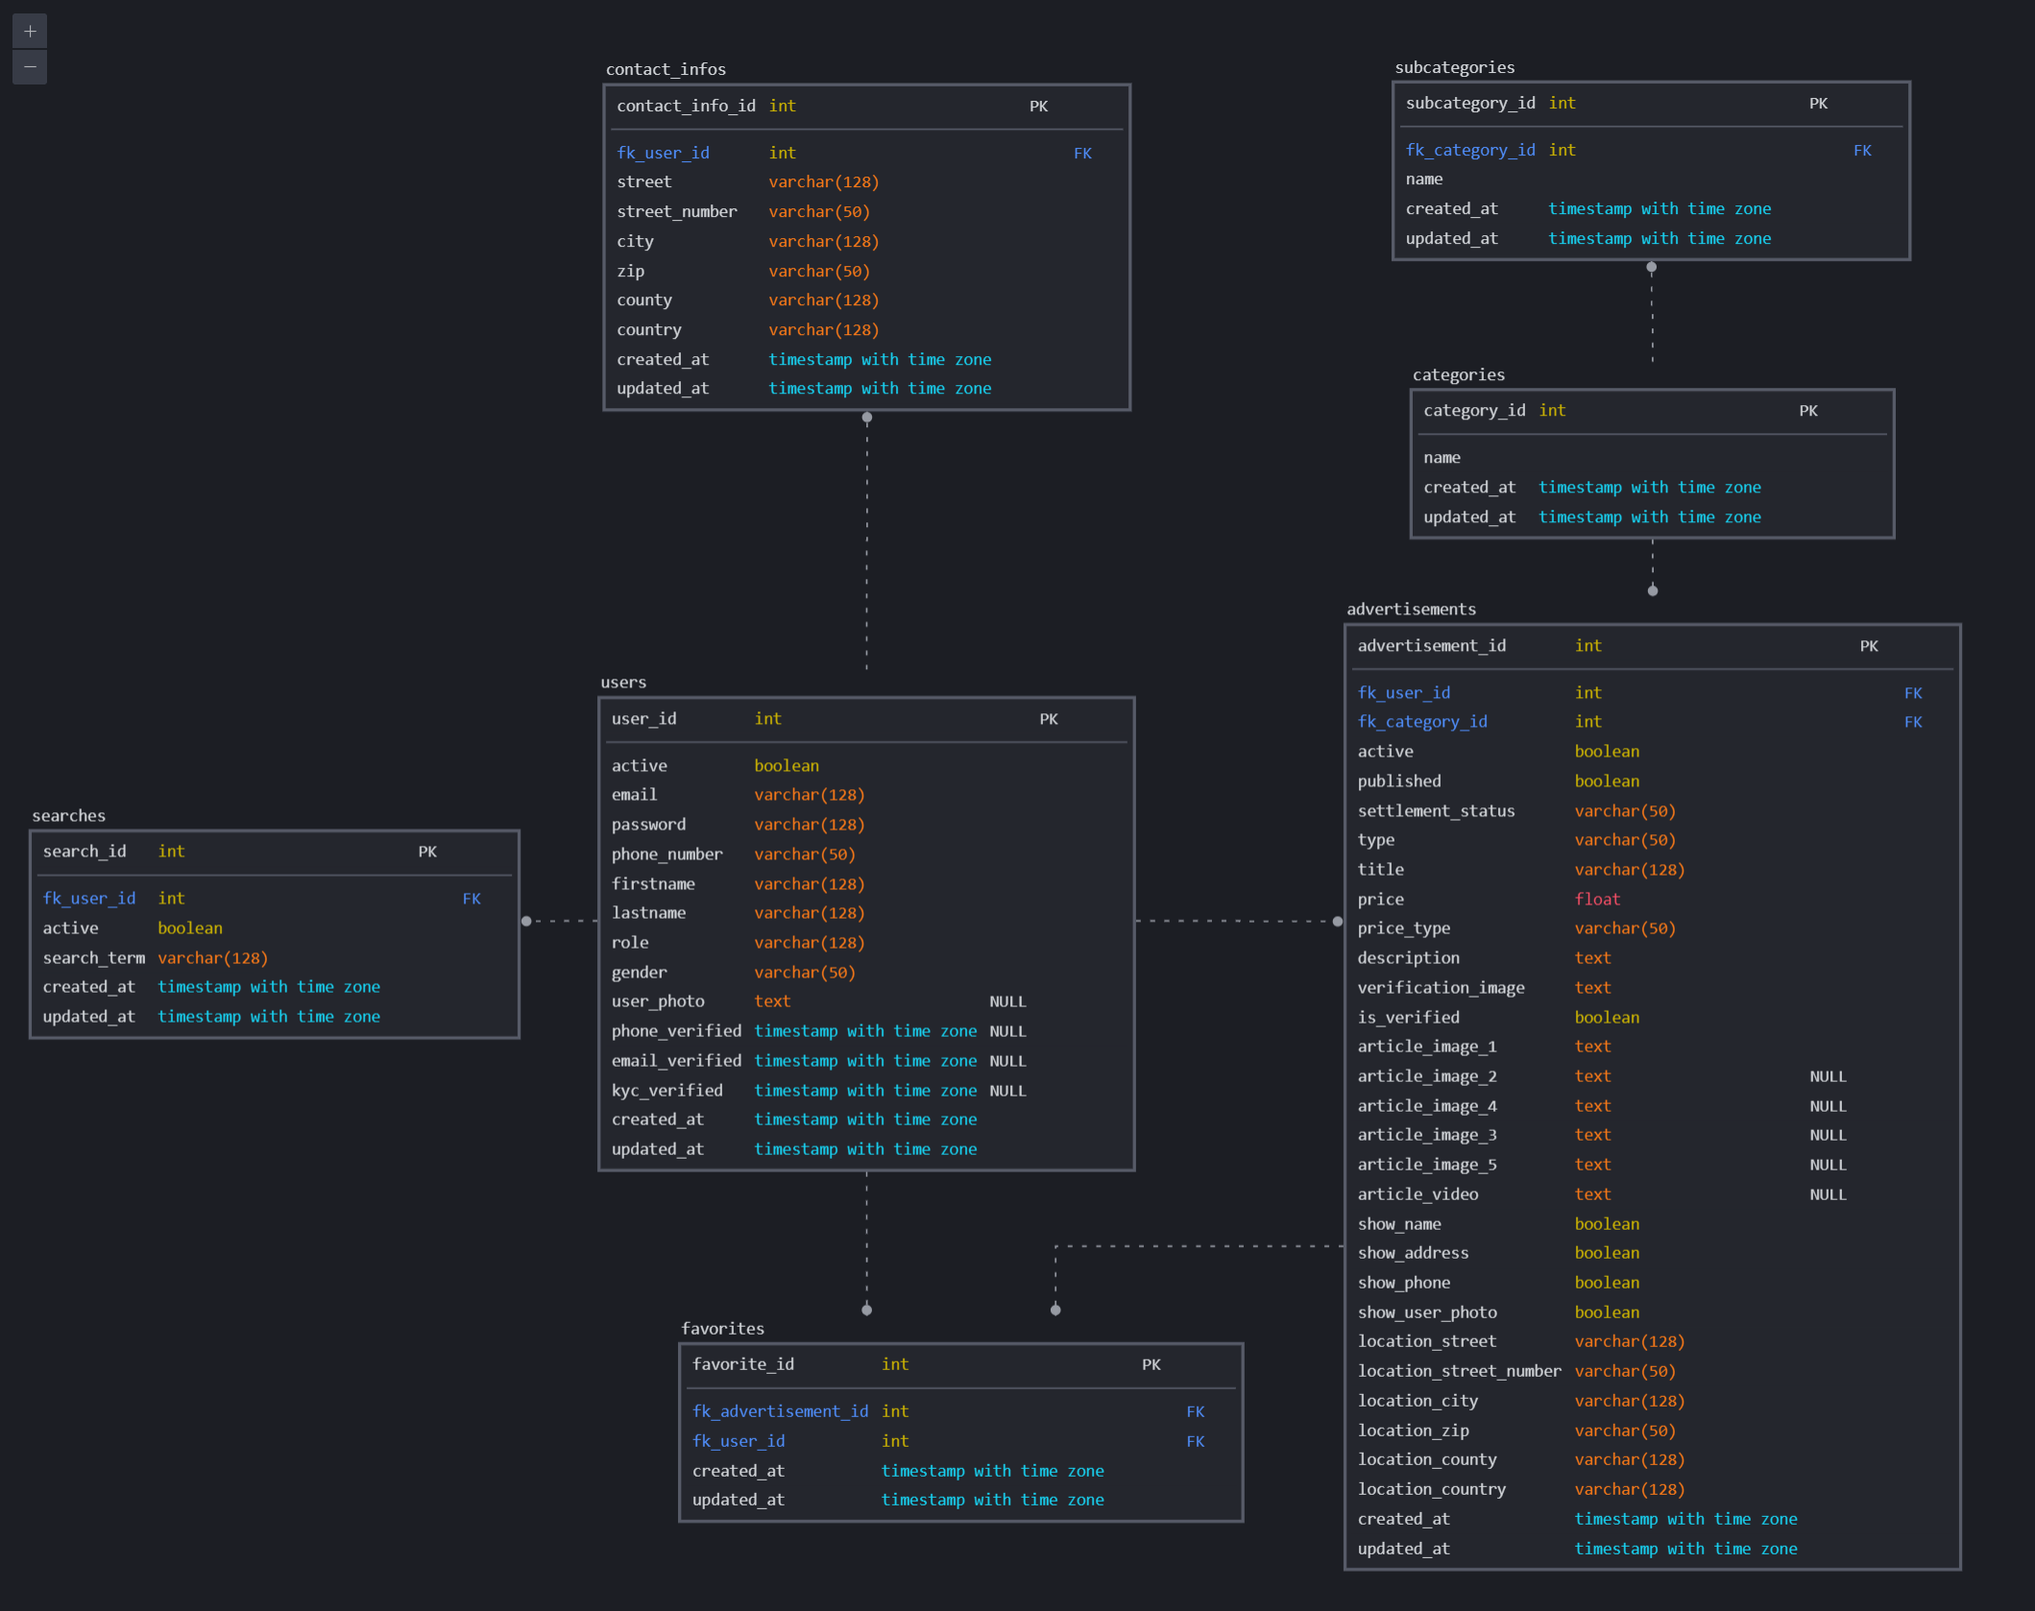
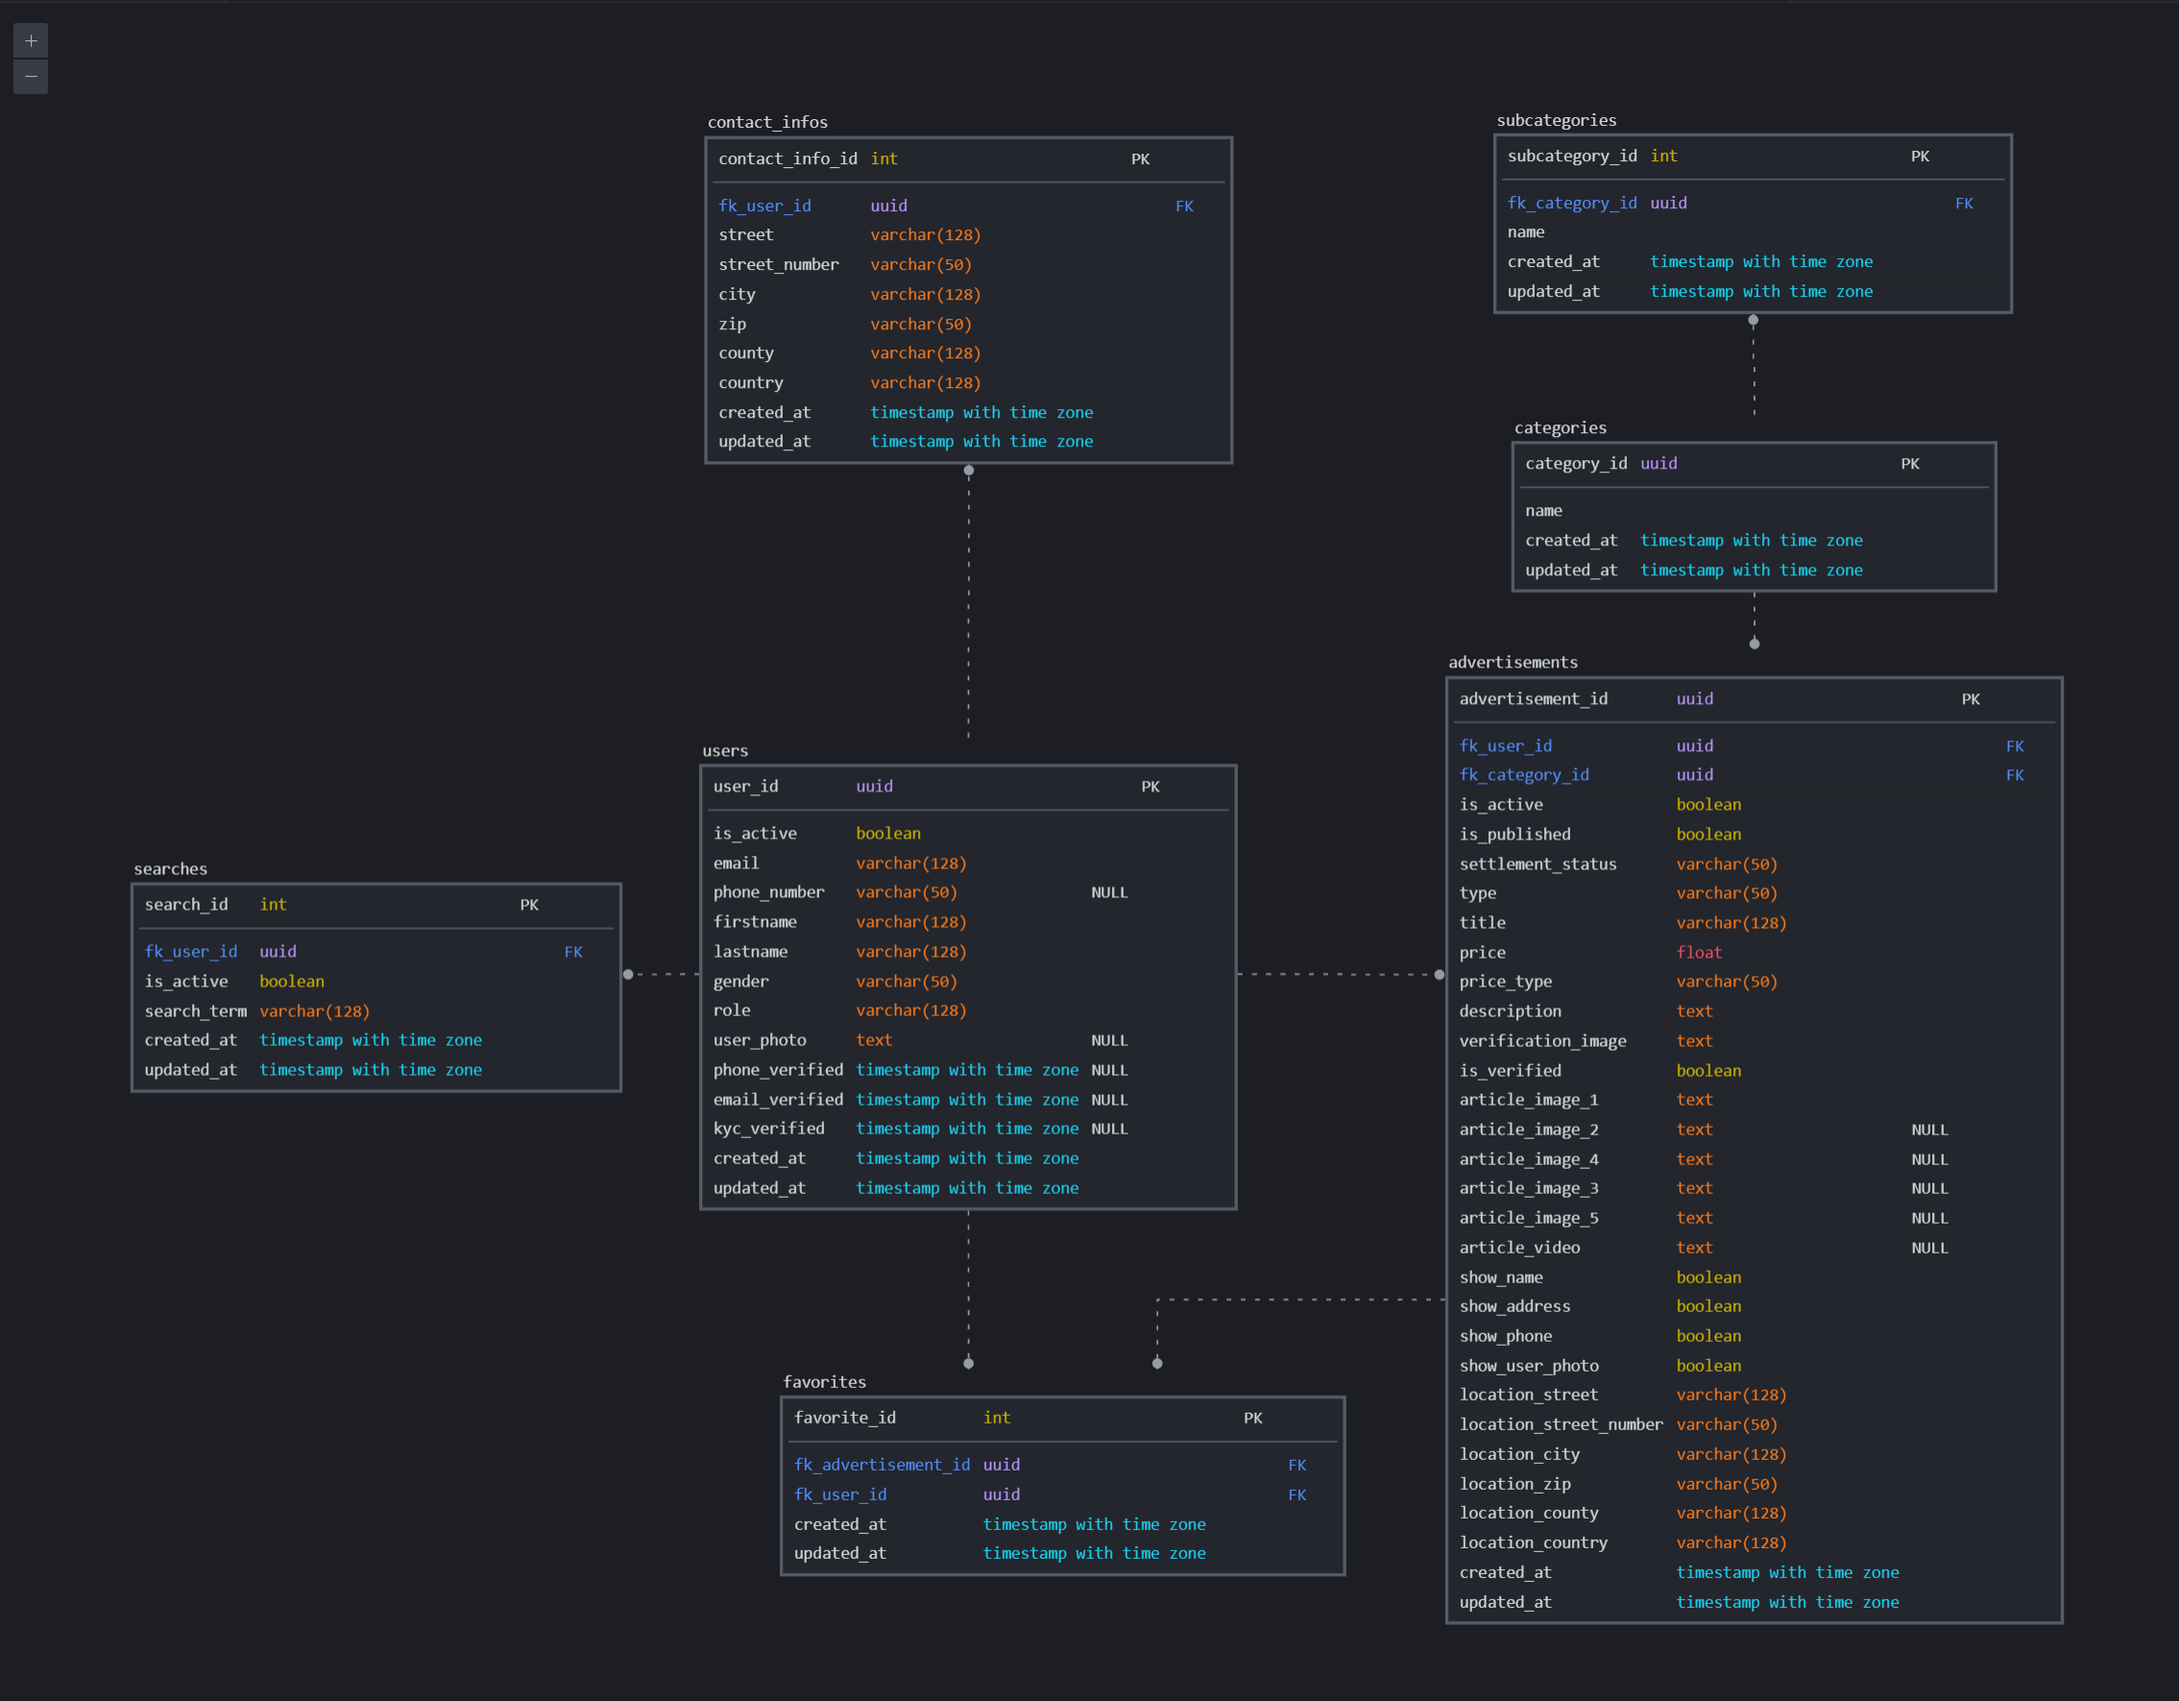
Added initial migration file before execution

diff --git a/src/database/migrations/20220413003916_init.js b/src/database/migrations/20220413003916_init.js
@@ -1,0 +1,138 @@
+exports.up = function (knex) {
+  return knex.schema
+    .createTable('users', (table) => {
+      table.uuid('user_id').primary().defaultTo(knex.raw('(UUID())'));
+      table.boolean('is_active').notNullable().defaultTo('true');
+      table.string('email', 128).notNullable().unique();
+      table.string('phone_number', 50).unique();
+      table.string('firstname', 128).notNullable();
+      table.string('lastname', 128).notNullable();
+      table.string('gender', 50).notNullable();
+      table.string('role', 128).notNullable().defaultTo('user');
+      table.string('user_photo');
+      table.timestamp('phone_verified', { useTz: true });
+      table.timestamp('email_verified', { useTz: true });
+      table.timestamp('kyc_verified', { useTz: true });
+      table.timestamps(true, true);
+    })
+    .createTable('contact_infos', (table) => {
+      table.uuid('contact_info_id').primary().defaultTo(knex.raw('(UUID())'));
+      table
+        .uuid('fk_user_id')
+        .notNullable()
+        .references('user_id')
+        .inTable('users')
+        .onDelete('RESTRICT')
+        .onUpdate('CASCADE');
+      table.string('street', 128).notNullable();
+      table.string('street_number', 50).notNullable();
+      table.string('city', 128).notNullable();
+      table.string('zip', 50).notNullable();
+      table.string('county', 128).notNullable();
+      table.string('country', 128).notNullable();
+      table.timestamps(true, true);
+    })
+    .createTable('searches', (table) => {
+      table.uuid('search_id').primary().defaultTo(knex.raw('(UUID())'));
+      table
+        .uuid('fk_user_id')
+        .notNullable()
+        .references('user_id')
+        .inTable('users')
+        .onDelete('RESTRICT')
+        .onUpdate('CASCADE');
+      table.boolean('is_active').notNullable().defaultTo('true');
+      table.string('search_term').notNullable();
+      table.timestamps(true, true);
+    })
+    .createTable('categories', (table) => {
+      table.uuid('category_id').primary().defaultTo(knex.raw('(UUID())'));
+      table.string('name').notNullable().unique();
+      table.timestamps(true, true);
+    })
+    .createTable('subcategories', (table) => {
+      table.uuid('subcategory_id').primary().defaultTo(knex.raw('(UUID())'));
+      table
+        .uuid('fk_category_id')
+        .notNullable()
+        .references('category_id')
+        .inTable('categories')
+        .onDelete('RESTRICT')
+        .onUpdate('CASCADE');
+      table.string('name').notNullable().unique();
+      table.timestamps(true, true);
+    })
+    .createTable('advertisements', (table) => {
+      table.uuid('advertisement_id').primary().defaultTo(knex.raw('(UUID())'));
+      table
+        .uuid('fk_user_id')
+        .notNullable()
+        .references('user_id')
+        .inTable('users')
+        .onDelete('RESTRICT')
+        .onUpdate('CASCADE');
+      table
+        .uuid('fk_category_id')
+        .notNullable()
+        .references('category_id')
+        .inTable('categories')
+        .onDelete('RESTRICT')
+        .onUpdate('CASCADE');
+      table.boolean('is_active').notNullable().defaultTo('true');
+      table.boolean('is_published').notNullable().defaultTo('false');
+      table.string('settlement_status', 50).notNullable().defaultTo('available');
+      table.string('type', 50).notNullable();
+      table.string('title', 128).notNullable();
+      table.float('price').notNullable();
+      table.string('price_type', 50).notNullable();
+      table.string('description').notNullable();
+      table.string('verification_image').notNullable();
+      table.boolean('is_verified').defaultTo('false');
+      table.string('article_image_1').notNullable();
+      table.string('article_image_2');
+      table.string('article_image_3');
+      table.string('article_image_4');
+      table.string('article_image_5');
+      table.string('article_video');
+      table.boolean('show_name').defaultTo('false');
+      table.boolean('show_address').defaultTo('false');
+      table.boolean('show_phone').defaultTo('false');
+      table.boolean('show_user_photo').defaultTo('false');
+      table.string('location_street', 128).notNullable();
+      table.string('location_street_number', 50).notNullable();
+      table.string('location_city', 128).notNullable();
+      table.string('location_zip', 50).notNullable();
+      table.string('location_county', 128).notNullable();
+      table.string('location_country', 128).notNullable();
+      table.timestamps(true, true);
+    })
+    .createTable('favorites', (table) => {
+      table.uuid('favorite_id').primary().defaultTo(knex.raw('(UUID())'));
+      table
+        .uuid('fk_advertisement_id')
+        .notNullable()
+        .references('advertisement_id')
+        .inTable('advertisements')
+        .onDelete('RESTRICT')
+        .onUpdate('CASCADE');
+      table
+        .uuid('fk_user_id')
+        .notNullable()
+        .references('user_id')
+        .inTable('users')
+        .onDelete('RESTRICT')
+        .onUpdate('CASCADE');
+      table.timestamps(true, true);
+    });
+};
+
+exports.down = function (knex) {
+  return knex.schema
+    .dropTable('searches')
+    .dropTable('contact_infos')
+    .dropTable('subcategories')
+    .dropTable('favorites')
+    .dropTable('advertisements')
+    .dropTable('categories')
+    .dropTable('users');
+};

diff --git a/knexfile.js b/knexfile.js
@@ -1,4 +1,4 @@
-require('dotenv').config({ path: '../.env' });
+require('dotenv').config();
 const parse = require('pg-connection-string').parse;
 const pgconfig = parse(process.env.DATABASE_URL);
 
@@ -15,10 +15,10 @@ module.exports = {
     },
     migrations: {
       tableName: 'knex_migrations',
-      directory: './migrations',
+      directory: './src/database/migrations',
     },
     seeds: {
-      directory: './seeds',
+      directory: './src/database/seeds',
     },
   },
 };

diff --git a/src/database/db.js b/src/database/db.js
@@ -1,5 +1,5 @@
 const knex = require('knex');
-const knexfile = require('./knexfile');
+const knexfile = require('../../knexfile');
 
 const db = knex(knexfile.development);
 module.exports = db;
